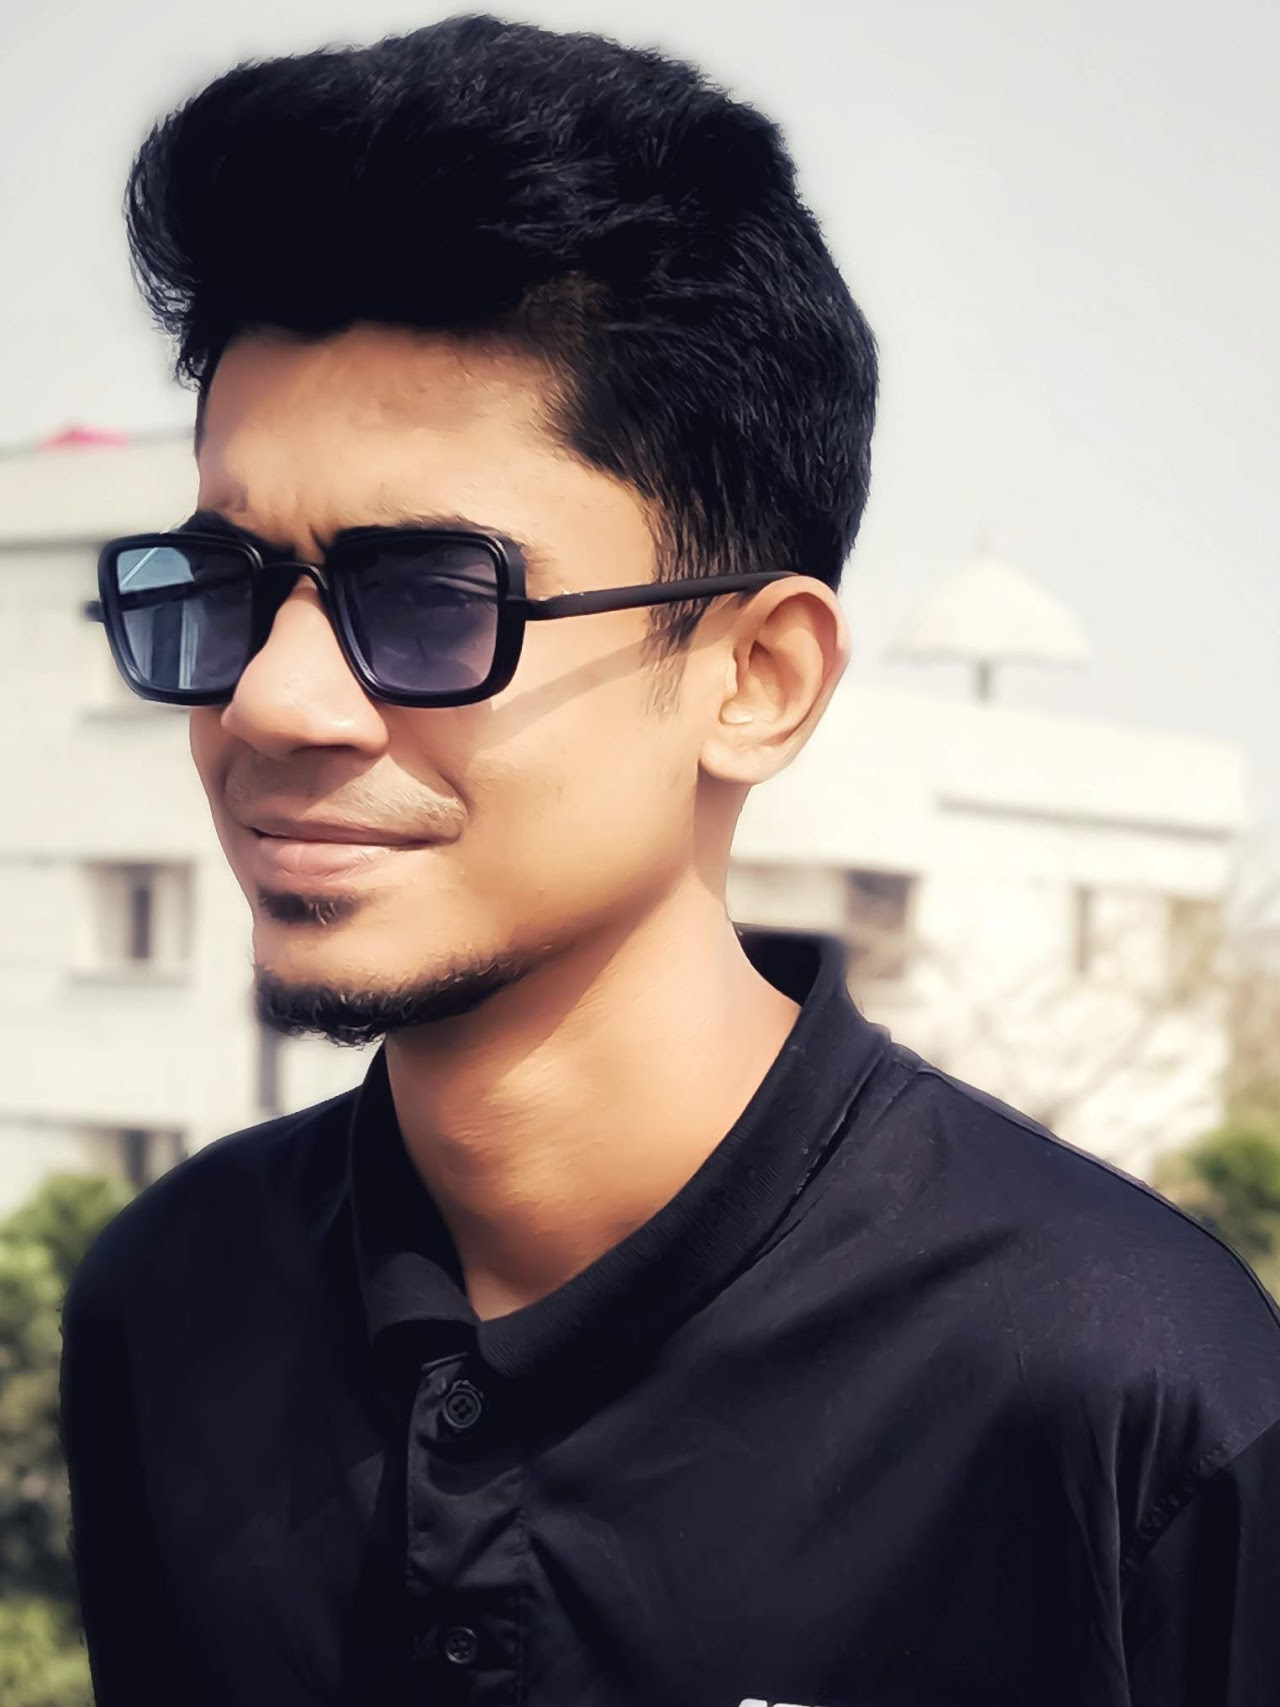
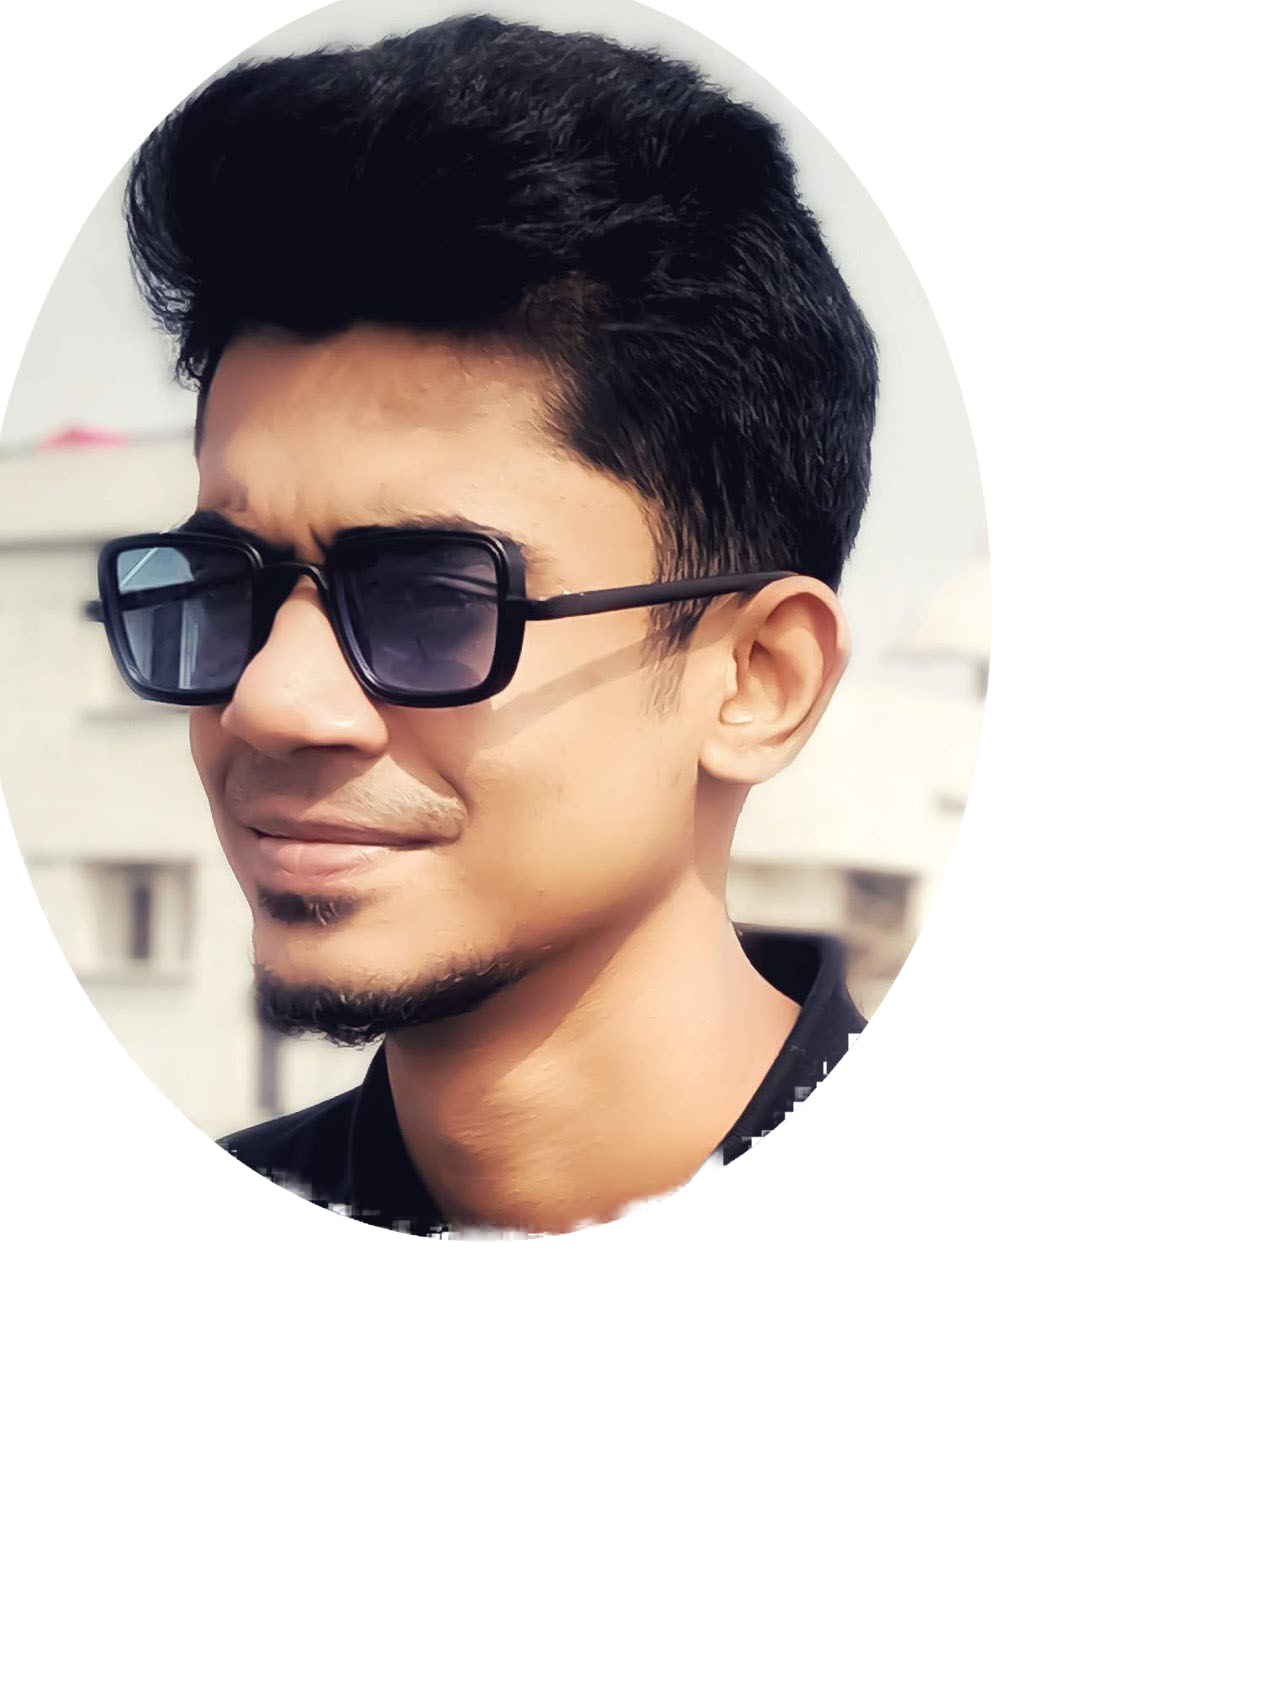
second Commit

diff --git a/index.html b/index.html
@@ -1,11 +1,41 @@
 <!DOCTYPE html>
 <html lang="en">
 <head>
-    <meta charset="UTF-8">
-    <meta name="viewport" content="width=device-width, initial-scale=1.0">
-    <title>Document</title>
+    <title>Sazedur's Portfolio</title>
+    <link href="https://fonts.googleapis.com/css2?family=Lato:wght@300&display=swap" rel="stylesheet">
+    <link rel="stylesheet" href="design.css">
+    
 </head>
 <body>
     
+    <section class="half-width">
+        <div class="myself">
+            <h1>
+                Welcome to My <span id="port">Portfolio</span>
+                <p>
+                    <b><span id="aboutme">About Myself</span></b>
+                </p>
+                <ul id="biosample">
+                   <li> MD. Sazedur Rahman </li>
+                    <li>Department of CSE</li>
+                    <li>Daffodil International University</li>
+                    <li>A technology enthusiast.</li>
+                </ul>
+            </h1>
+        </div>
+        <div>
+            <img id="propic" src="images/propic.jpg" alt="" width="450" height="630">
+        </div>
+        </section>
+        <section class="knowme">
+            <div class="knowme2">
+                <img src="images/dream.jpg" alt=""height="330"width="330">
+                <img src="images/hobby.jpg" alt=""height="330"width="330">
+                <img src="images/sides.jpg" alt=""height="330"width="330">
+                <img src="images/skill.jpg" alt=""height="330"width="330">
+            </div>
+         <div class="knowmedetails">
+            <b><p>My dream is to become a cyber security specialist.My hobby is searching and gathering knowledge about new technology.My positive side is when I take any project or work i done it with perfection.My negative side is sometimes i over sleep.I have many professional skills like leadership,communication with new people.</p></b> 
+         </div>
+        </section>
 </body>
-</html>

diff --git a/design.css b/design.css
@@ -1,0 +1,59 @@
+body{
+    margin: 0;
+    font-family: 'Lato', sans-serif;
+}
+h1{
+    font-size: 32px;
+}
+#port
+{
+    color:chartreuse;
+}
+#aboutme
+{
+    color: brown;
+    padding-left: 5%;
+}
+.myself
+{
+    margin: 4%;
+    width: 33%;
+    border: 5px solid red;
+    border-radius: 5px;
+    padding: 10px;
+    float: left;
+    display: inline-block;
+    padding-left: 6%;
+    
+}
+#biosample
+{
+    font-size: 25px;
+    box-shadow: 10px 10px 40px rgb(250, 28, 28);
+    border-radius: 10px;
+    height: 45%;
+    width: 65%;
+}
+#propic
+{
+    padding-left: 15%;
+}
+.half-width
+{
+    background-image: url("images/top-banner.png");
+    background-repeat: no-repeat;
+}
+.knowme2
+{
+    margin-top: 3%;
+    margin-left: 3%;
+    margin-right:3%;
+    float: left;
+    display: inline-block;
+    padding-right: 6%;
+}
+.knowmedetails
+{
+    padding-left: 3%;
+    width:23%;
+}
